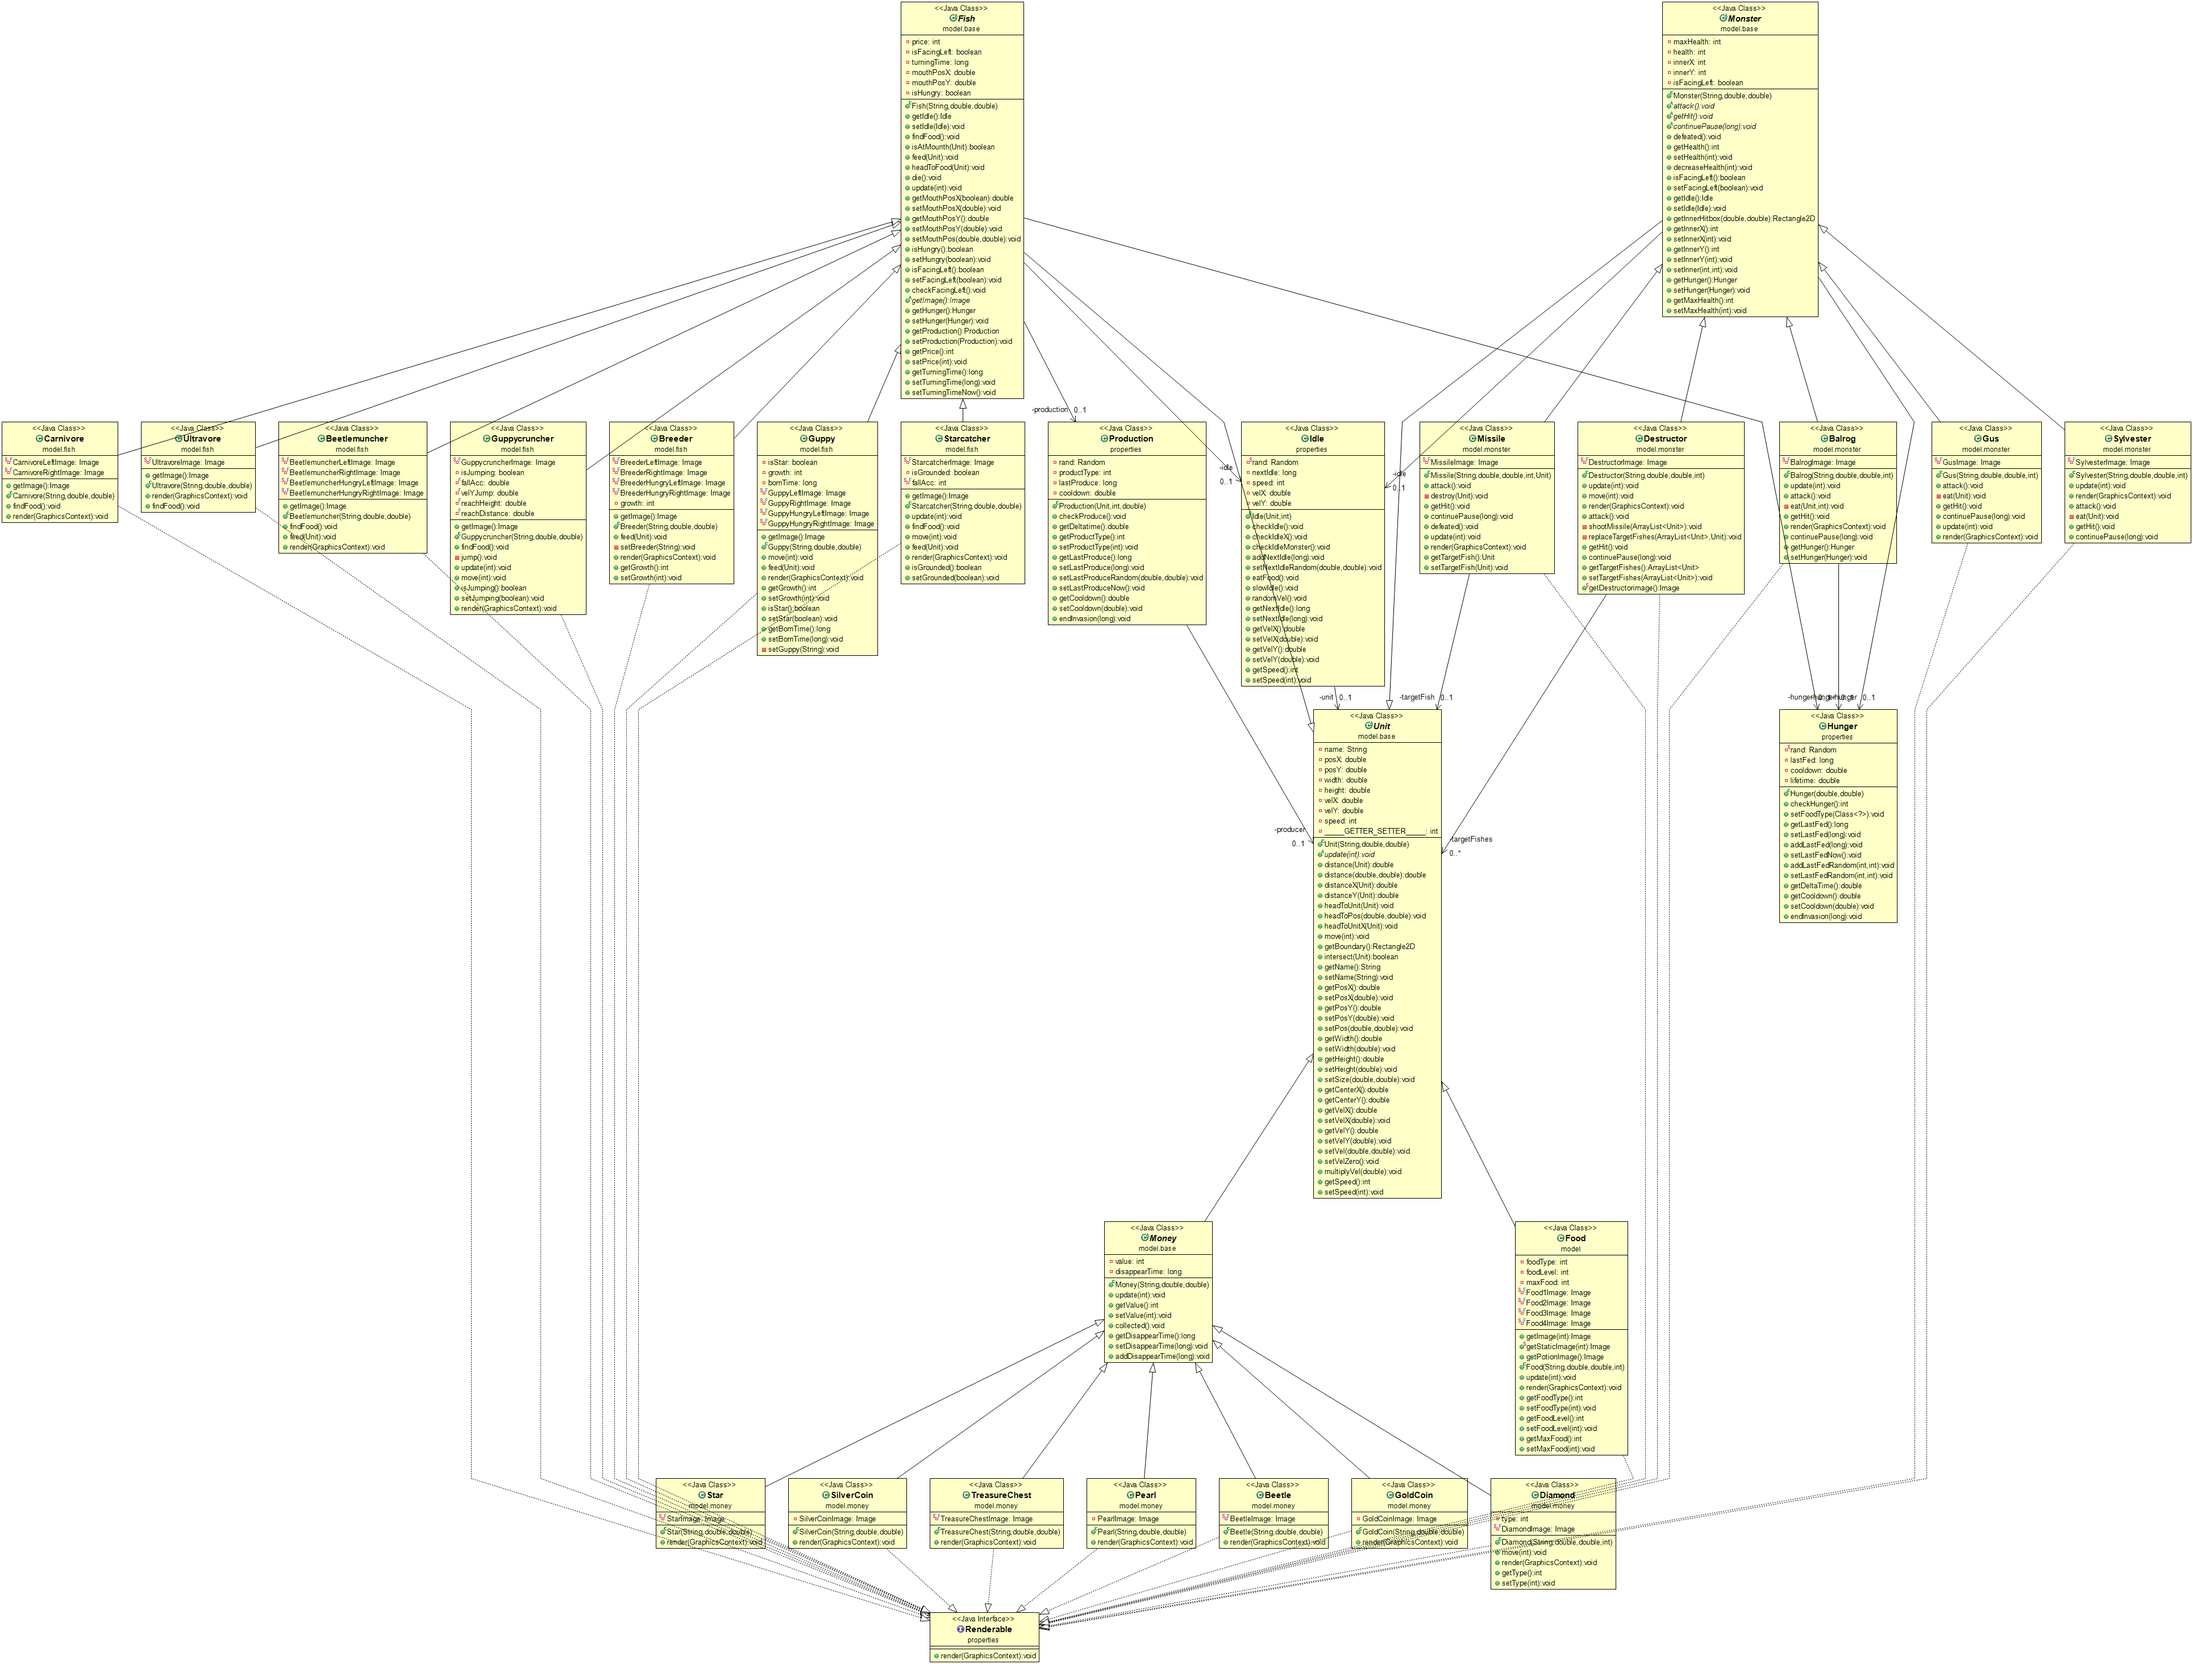
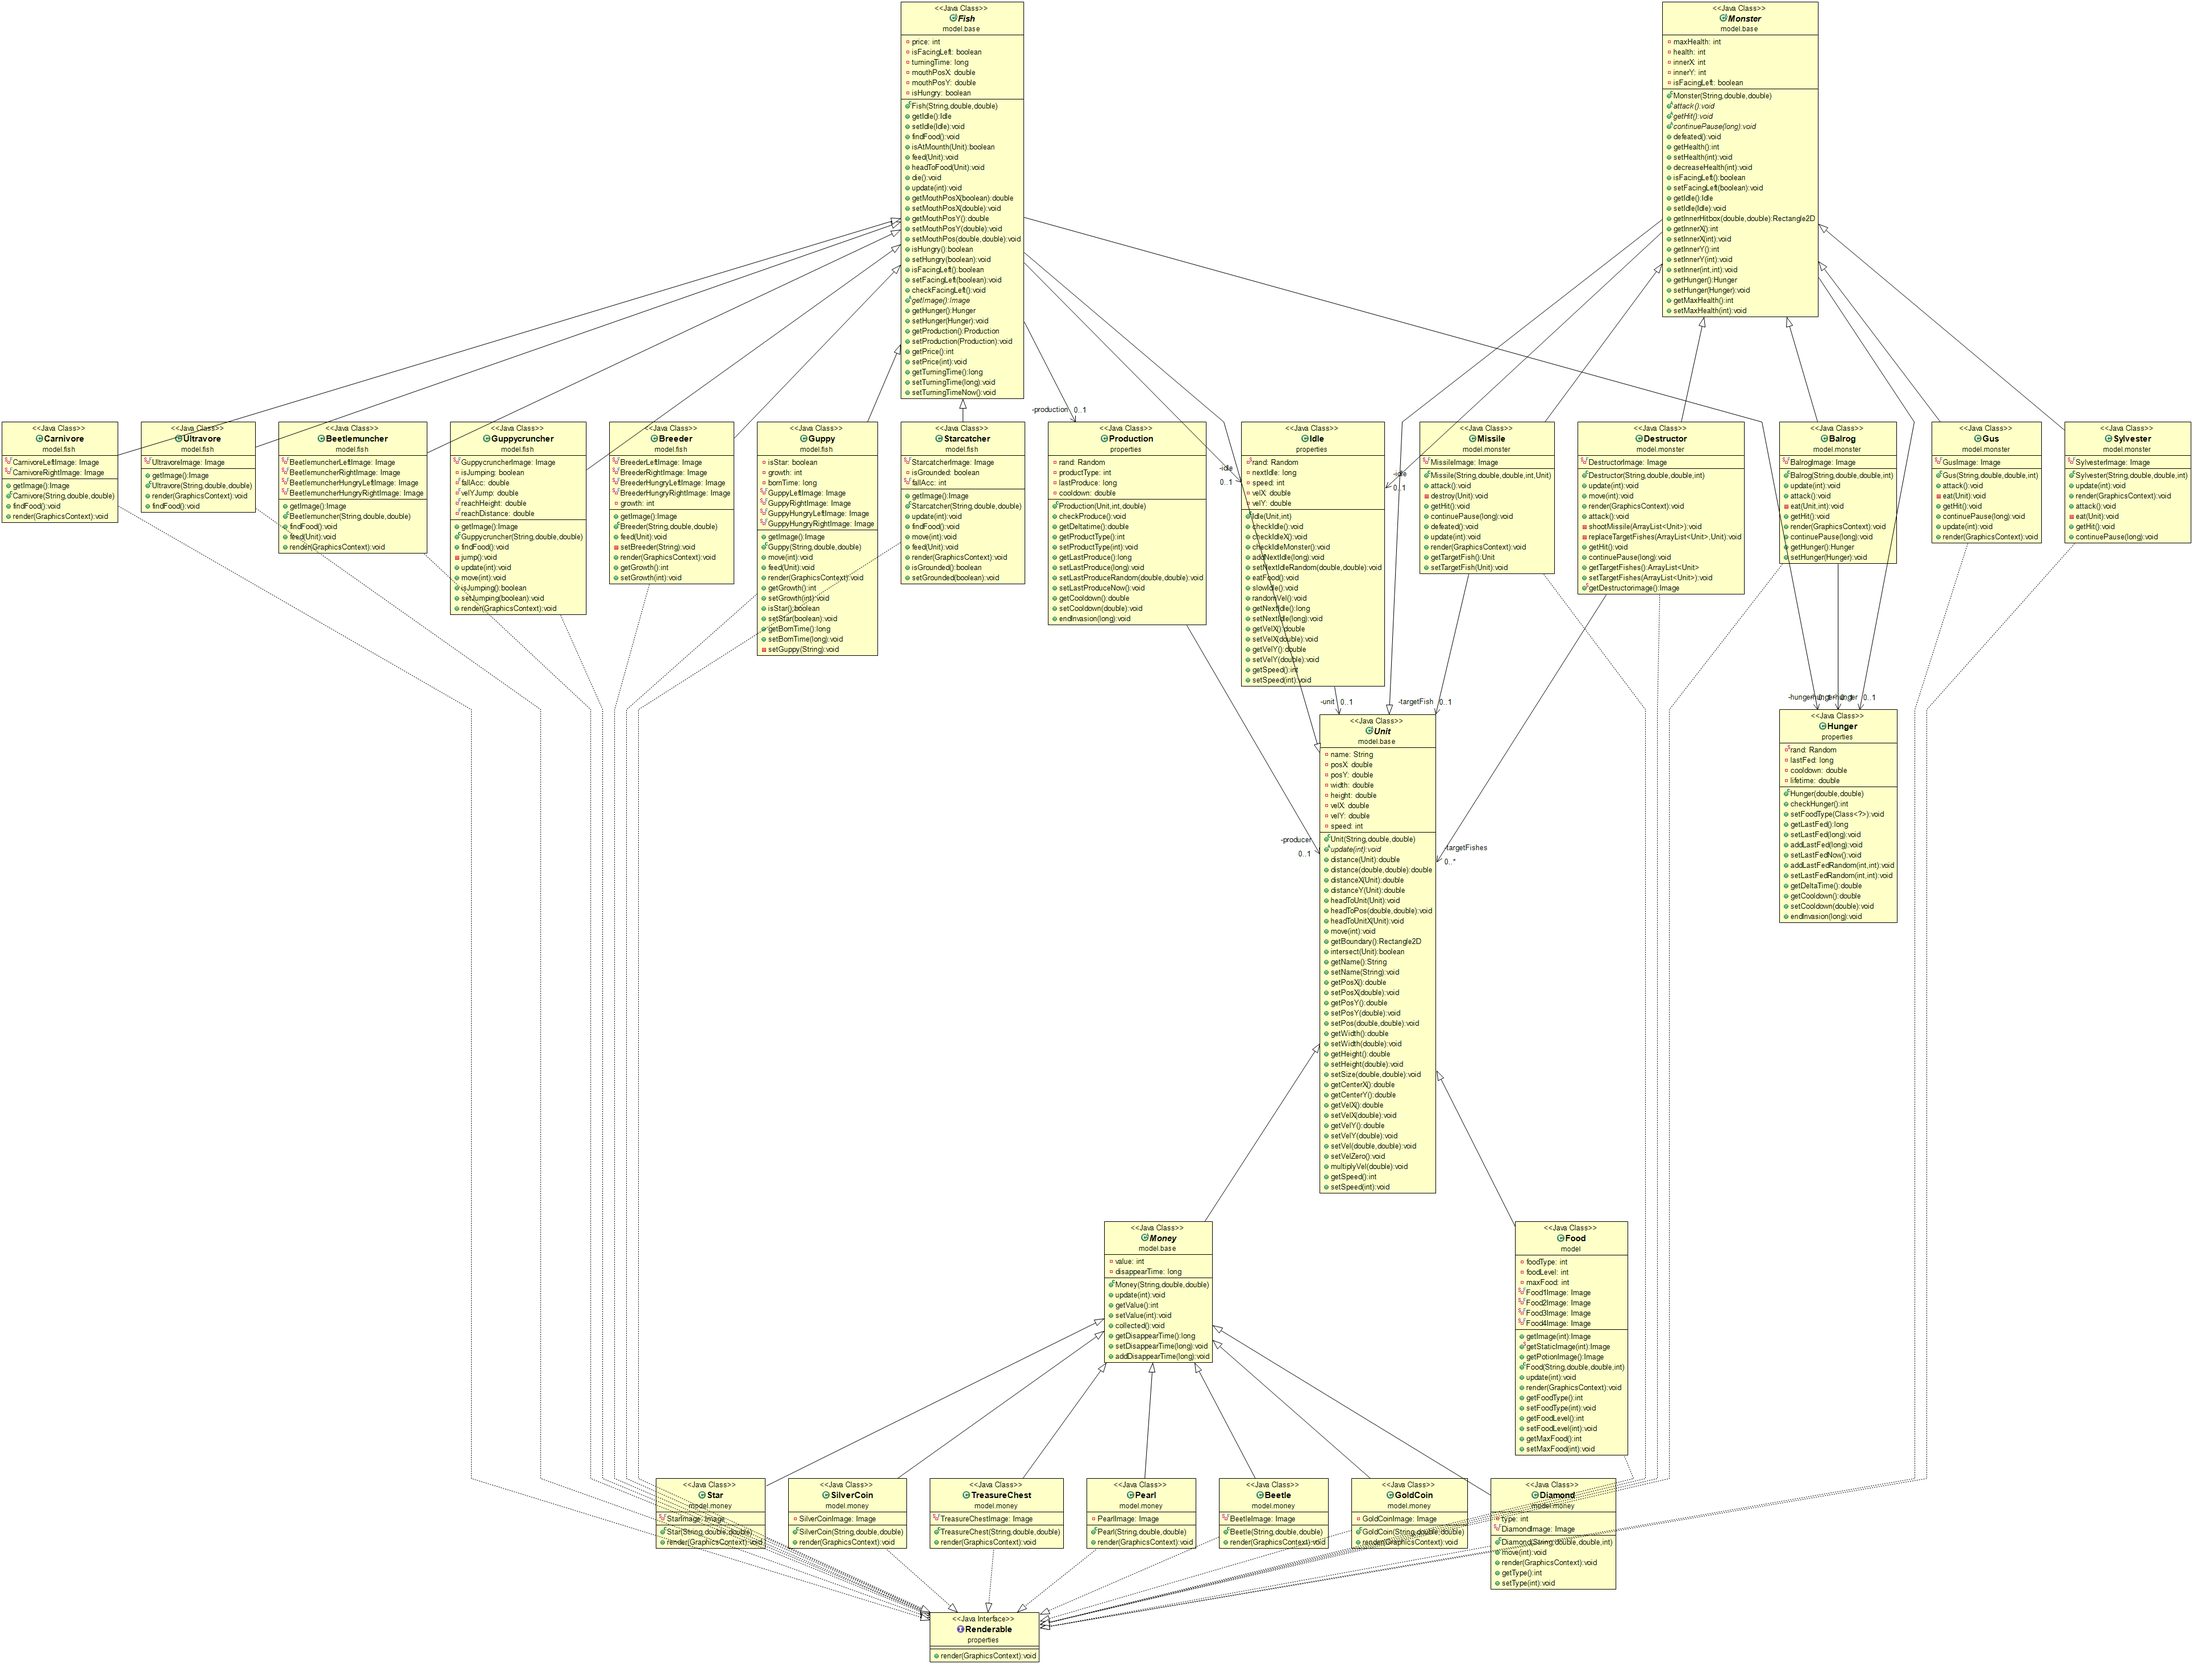
Remove unused separator in Unit

Changed region(s): [[0.5908, 0.404, 0.6841, 0.7459], [0.5286, 0.9324, 0.5908, 0.9635]]

diff --git a/src/model/base/Unit.java b/src/model/base/Unit.java
@@ -92,8 +92,6 @@ public abstract class Unit {
 	}
 
 	// GETTER SETTER
-	@SuppressWarnings("unused")
-	private int _____GETTER_SETTER_____;
 
 	public String getName() {
 		return name;
